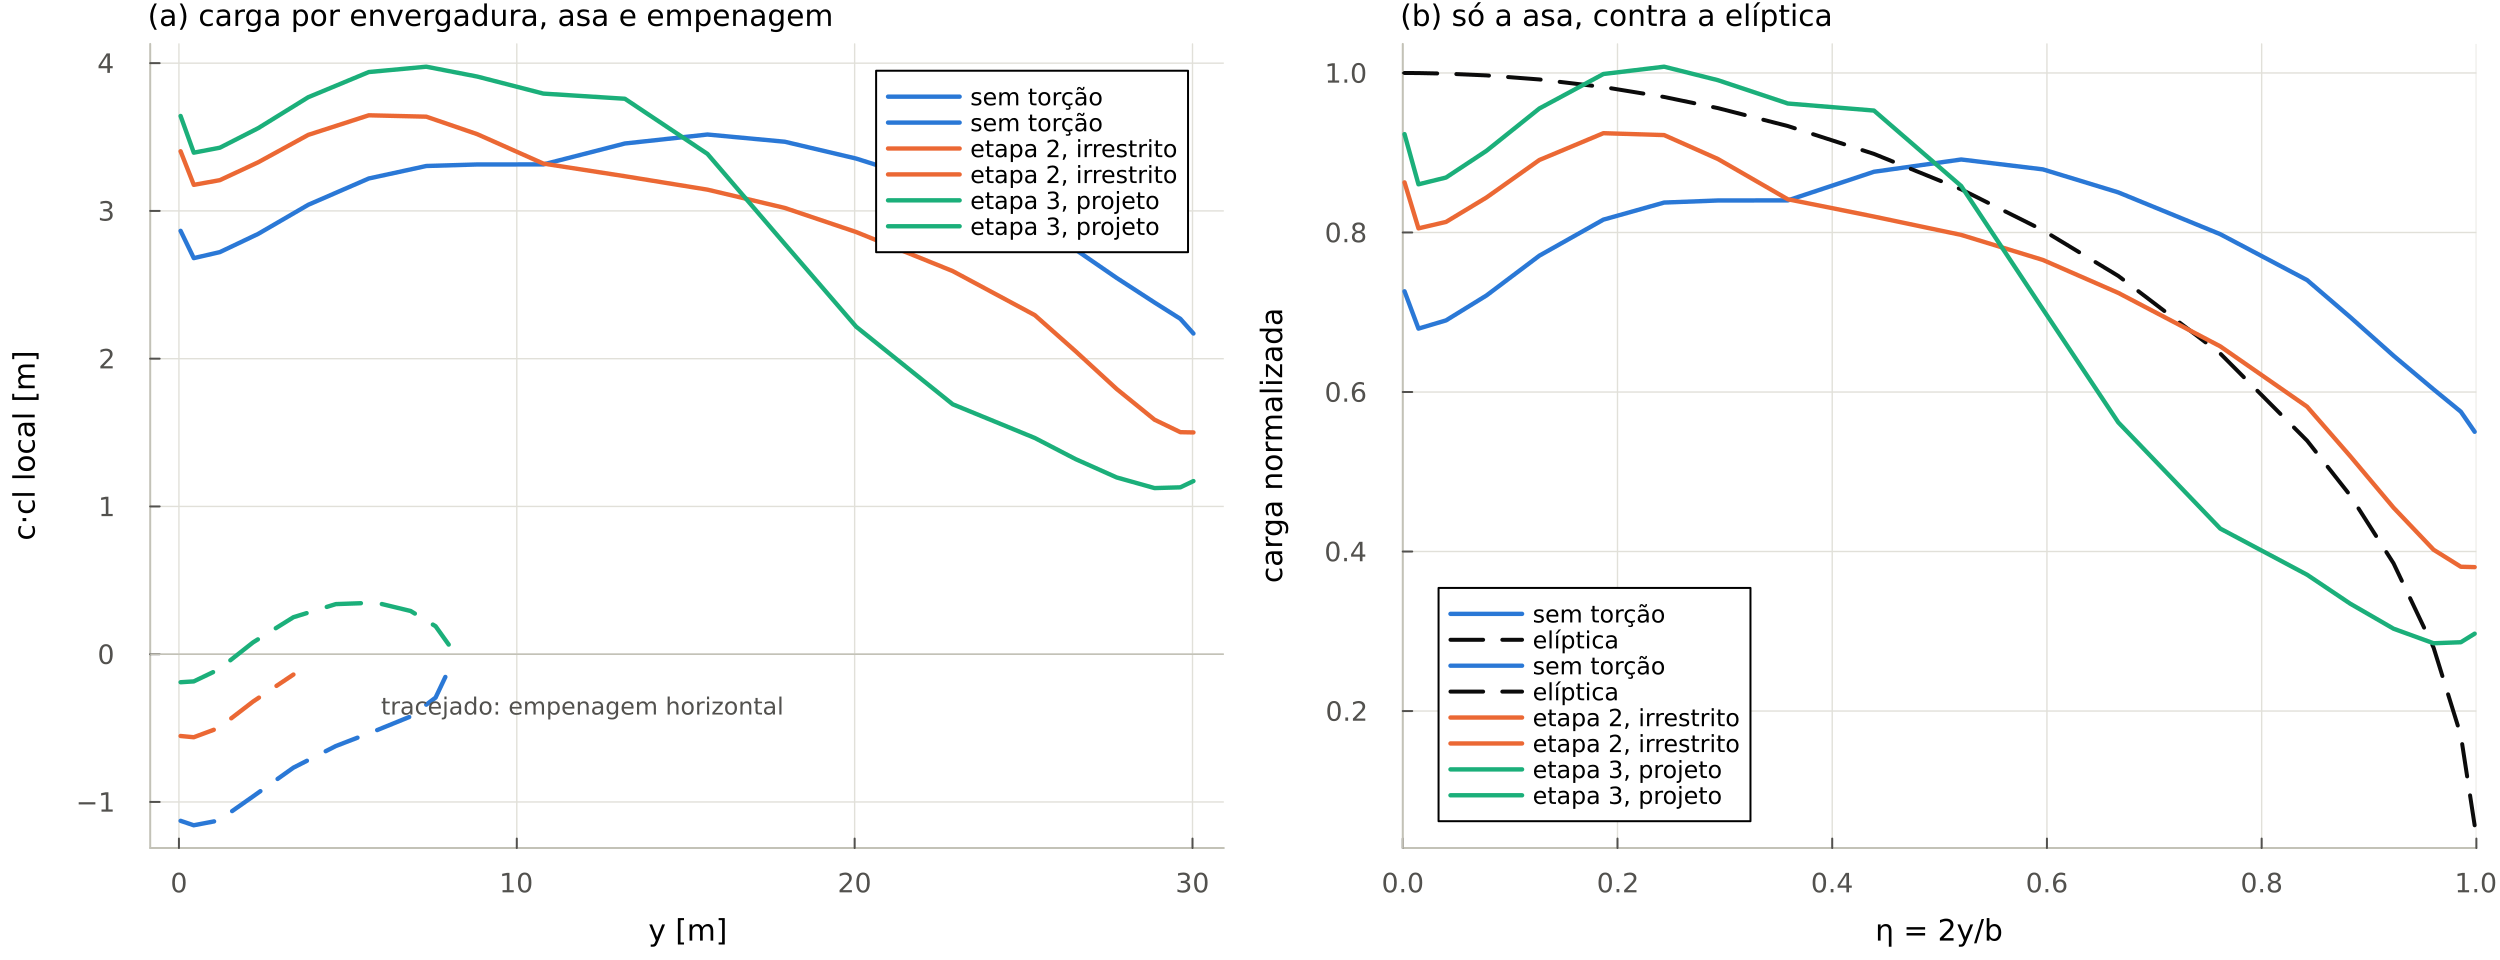
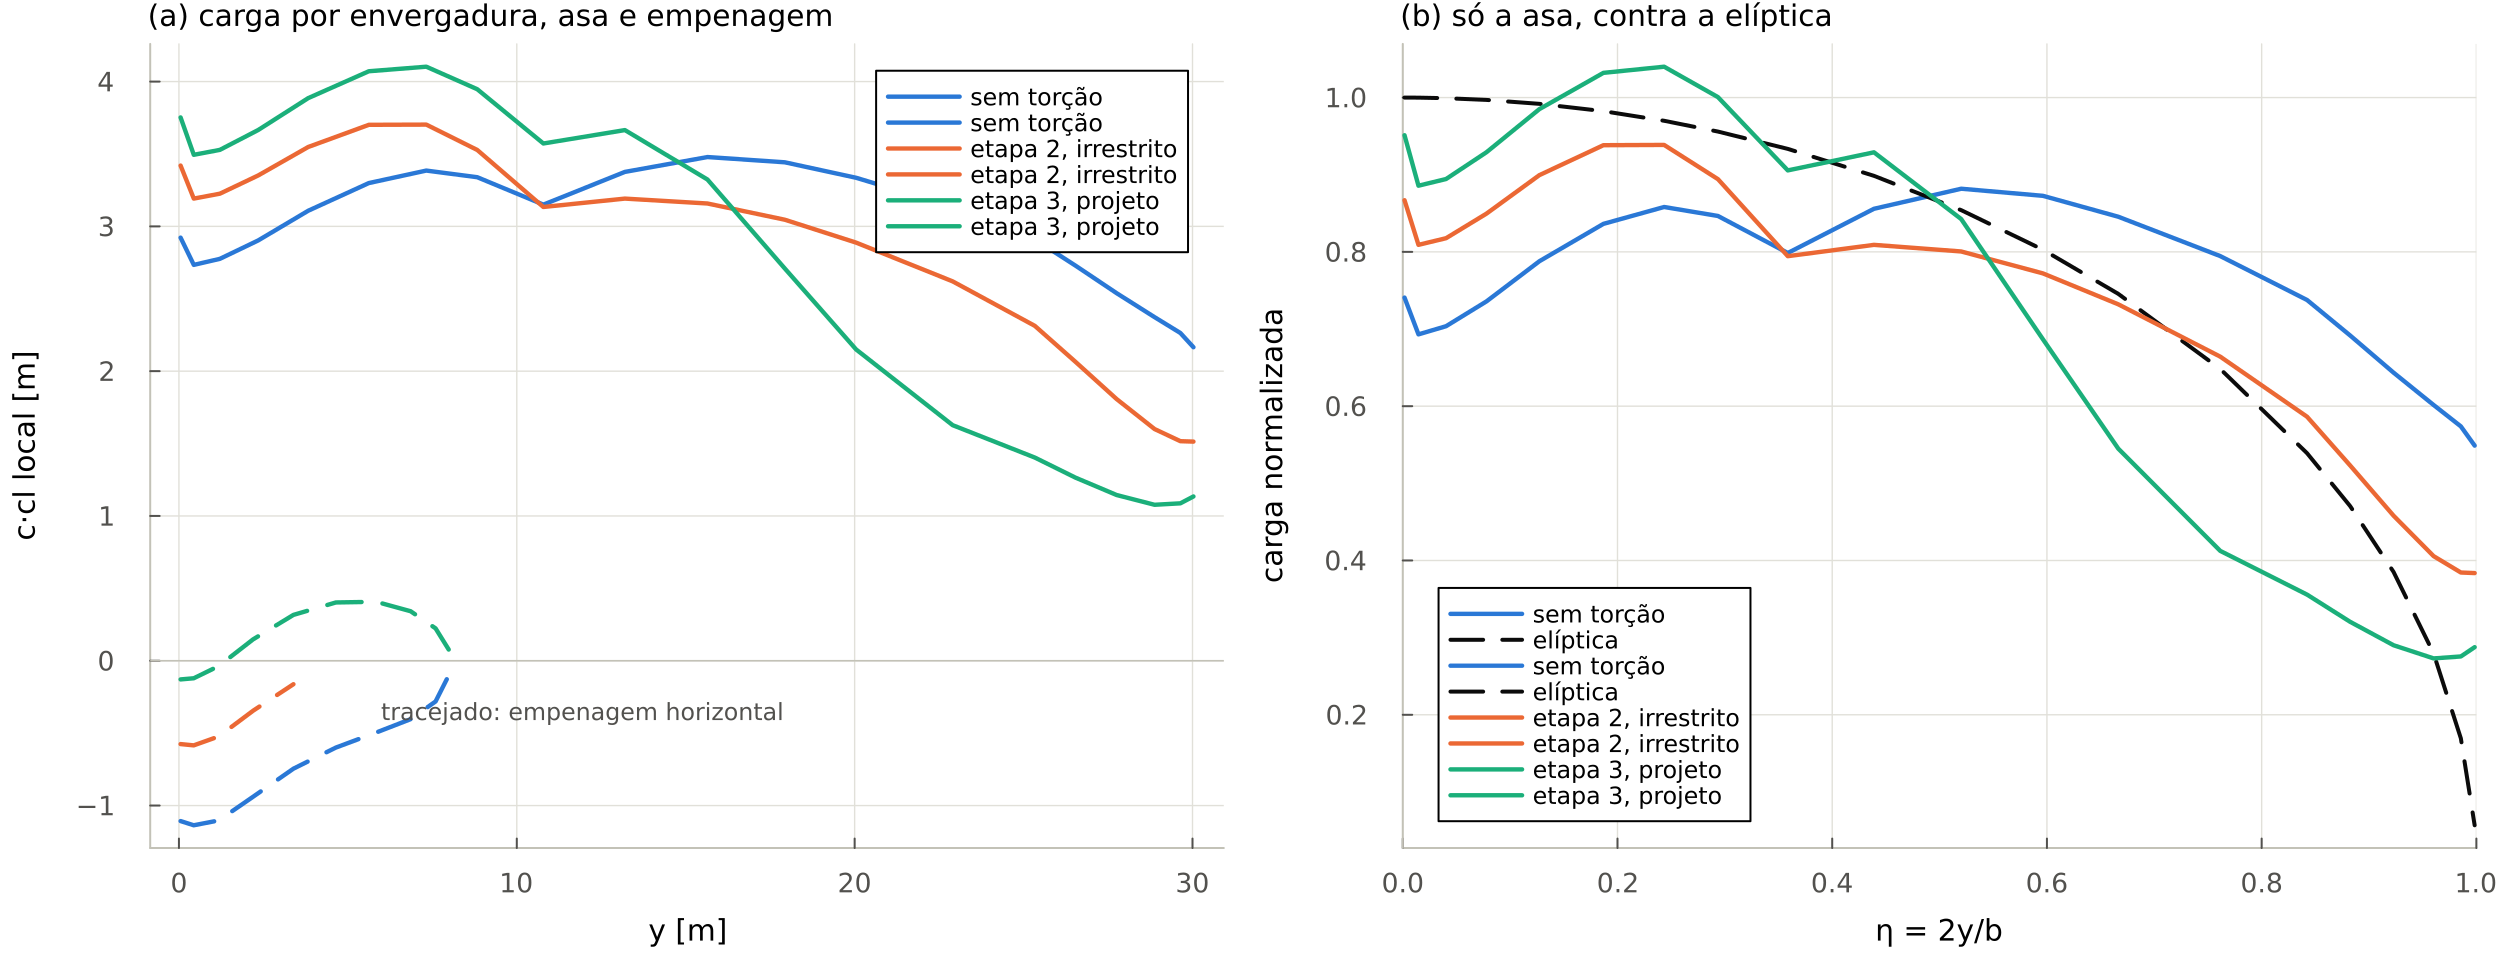
Lab 04: nacele como no 737 (COMPONENT 1), encaixe nos batentes e KKT fechado

diff --git a/avl/README.md b/avl/README.md
@@ -171,20 +171,21 @@ dentro do aileron. A causa é o modelo afim de estol, que extrapola de dois
 ângulos e é ligeiramente otimista perto do estol: nos casos medidos, ele
 superestimou a folga entre 0,11 e 0,19 grau. O desempate é esse erro, para que a
 posição do estol valha também na medição direta, que a verificação confere. No
-projeto final a folga pelo modelo é 0,200° e a medida direto é +0,094°.
+projeto final a folga pelo modelo é 0,200° e a medida direto é +0,089°.
 
 ### Onde pôr os nós
 
 O parâmetro que mais importa, e ele só aparece com a restrição ativa. Para
-arrasto puro as nove configurações ficam dentro de 1,2 count umas das outras;
-com a exigência de estol o espalhamento passa de 70 counts (valores do modelo):
+arrasto puro as nove configurações ficam dentro de 0,7 count umas das outras;
+com a exigência de estol o espalhamento passa de 50 counts, e com três nós
+nem existe solução viável (valores do modelo):
 
 | nós | sem restrição | com estol antes de 0,56 |
 |---|---|---|
-| 0,00 0,25 0,50 0,75 1,00 | −12,37 | +16,63 |
-| 0,00 0,22 0,40 0,56 0,75 1,00 | −12,52 | +8,28 |
-| 0,00 0,48 0,56 0,75 1,00 | −12,11 | +0,91 |
-| **0,00 0,30 0,48 0,56 0,70 0,85 1,00** | **−12,26** | **+0,91** |
+| 0,00 0,25 0,50 0,75 1,00 | −10,79 | +26,54 |
+| 0,00 0,22 0,40 0,56 0,75 1,00 | −10,83 | +14,46 |
+| 0,00 0,48 0,56 0,75 1,00 | −10,70 | +4,52 |
+| **0,00 0,30 0,48 0,56 0,70 0,85 1,00** | **−10,72** | **+4,48** |
 
 O que decide é ter um nó em 0,48, logo antes da raiz do aileron em 0,56: a curva
 fica plana até ali e vira depressa depois, sem vazar washout para a região que
@@ -194,20 +195,20 @@ precisa estolar primeiro.
 
 | caso | CDff | counts | Oswald | estol começa em η | CL no estol |
 |---|---|---|---|---|---|
-| sem torção | 0,010030 | - | 0,7983 | 0,923 | 0,954 |
-| 2: completa compensada, sem restrição | 0,008784 | −12,46 | 0,9180 | 0,842 | 1,073 |
-| **3: projeto, estol antes de 0,56** | **0,010045** | **+0,15** | **0,8064** | **0,520** | **1,217** |
+| sem torção | 0,010142 | - | 0,7941 | 0,923 | 0,952 |
+| 2: completa compensada, sem restrição | 0,009055 | −10,87 | 0,8966 | 0,842 | 1,065 |
+| **3: projeto, estol antes de 0,56** | **0,010511** | **+3,69** | **0,7783** | **0,520** | **1,219** |
 
 Torção adotada:
 
 | η | 0,000 | 0,101 | 0,220 | 0,320 | 0,398 | 0,480 | 0,560 | 0,700 | 0,820 | 0,900 | 1,000 |
 |---|---|---|---|---|---|---|---|---|---|---|---|
-| torção [°] | 0,00 | 0,00 | 0,00 | 0,00 | 0,00 | 0,00 | −2,95 | −5,81 | −5,81 | −5,81 | −5,81 |
+| torção [°] | 0,00 | 0,00 | 0,00 | 0,00 | 0,00 | 0,00 | −3,13 | −6,00 | −6,00 | −6,00 | −6,00 |
 
-A aeronave fica conforme por praticamente o mesmo arrasto da asa sem torção
-(+0,15 count), e o CL em que o estol começa sobe de 0,954 para 1,217, 28% a
-mais, logo abaixo do CLmax de 1,333 que o designTool estima para a aeronave
-limpa. O maior salto entre estações vizinhas é 2,95 graus (1,22 °/m), acima dos
+A aeronave fica conforme por 3,7 counts a mais que a asa sem torção, e o CL em
+que o estol começa sobe de 0,952 para 1,219, 28% a mais, logo abaixo do CLmax
+de 1,333 que o designTool estima para a aeronave limpa. O maior salto entre
+estações vizinhas é 3,13 graus (1,30 °/m), acima dos
 cerca de 0,3 °/m de um transporte, porque a variação de incidência se concentra
 junto à raiz do aileron, onde a restrição age.
 
@@ -215,54 +216,63 @@ Custo de exigir o início do estol mais para dentro:
 
 | estol antes de | CDff | counts | Oswald |
 |---|---|---|---|
-| **0,56** | **0,010045** | **+0,15** | **0,806** |
-| 0,50 e 0,45 | 0,013411 | +33,80 | 0,609 |
-| 0,40 e 0,35 | 0,013564 | +35,34 | 0,603 |
+| **0,56** | **0,010511** | **+3,69** | **0,778** |
+| 0,50 a 0,35 | 0,013446 | +33,04 | 0,614 |
 
 O salto entre 0,56 e 0,50 é grande porque a malha só enxerga os centros das
 faixas (0,439, 0,520, 0,596...): exigir 0,50 tira da região interna a faixa em
-0,520, que é justamente a que estola primeiro no projeto. Por isso 0,45 e 0,50
-dão o mesmo resultado.
+0,520, que é justamente a que estola primeiro no projeto. Daí para dentro o
+resultado é o mesmo: o ótimo passa a estolar em η = 0,243, bem antes de todos
+esses limites.
 
-### Por que o Oswald fica em 0,81
+### Por que o Oswald fica em 0,78
 
 A cascata abaixo, feita pelo `carga_completa.jl` com a torção da etapa 2 e o CL
 fixo, atribui cada queda a uma peça da aeronave:
 
 | configuração | e | Δe |
 |---|---|---|
-| só a asa, sem winglet | 0,982 | - |
-| + winglet | 1,078 | +0,096 |
-| + fuselagem | 1,058 | −0,020 |
-| **+ naceles** | **0,943** | **−0,115** |
-| + empenagens, profundor em zero | 0,932 | −0,011 |
-| compensado, ótimo da etapa 2 | 0,918 | −0,014 |
-| **+ restrição de estol (projeto)** | **0,806** | **−0,112** |
+| só a asa, sem winglet | 0,979 | - |
+| + winglet | 1,075 | +0,096 |
+| + fuselagem | 1,056 | −0,019 |
+| **+ naceles** | **0,923** | **−0,132** |
+| + empenagens, profundor em zero | 0,916 | −0,007 |
+| compensado, ótimo da etapa 2 | 0,897 | −0,020 |
+| **+ restrição de estol (projeto)** | **0,778** | **−0,118** |
 
-A otimização sem restrição entrega 0,918, e a asa isolada com winglet chega a
+A otimização sem restrição entrega 0,897, e a asa isolada com winglet chega a
 1,08. As duas maiores quedas são as naceles e a restrição de estol, cada uma de
-cerca de 0,11.
+cerca de 0,12 a 0,13.
 
-**Alerta sobre as naceles.** Elas estão modeladas como SUPERFÍCIE sustentadora
-em forma de anel, com cerca de 91 m² de malha cada, quase metade da área da
-asa. No VLM um anel em ângulo de ataque gera circulação, esteira e arrasto
-induzido; uma nacele real tem escoamento passante e não se comporta assim. A
-representação usual no AVL para nacele é BODY, que desloca o escoamento sem
-sustentar. O efeito não fica só no valor absoluto: com a mesma torção e o mesmo
-CL, tirar as naceles muda a carga local da asa em até 11% em η = 0,36.
-Comparações entre casos continuam válidas, porque as naceles são as mesmas em
-todos, mas o valor absoluto do Oswald depende dessa escolha de modelagem.
+**Naceles: a modelagem do 737 da disciplina.** No `737.avl` a nacele é uma
+SUPERFÍCIE sustentadora em forma de anel, declarada no mesmo `COMPONENT 1` da
+asa. Aqui ela foi copiada igual, inclusive o componente: entre componentes
+diferentes o AVL usa núcleo finito nos vórtices, e a interação asa-nacele
+mudaria em relação ao modelo de referência. Cada anel tem cerca de 91 m² de
+malha, quase metade da área da asa, e no VLM um anel em ângulo de ataque gera
+circulação, esteira e arrasto induzido, o que uma nacele real, de escoamento
+passante, não faz. O próprio 737 de referência mostra o tamanho desse efeito:
+
+| 737.avl da disciplina | e |
+|---|---|
+| sem as naceles | 0,842 |
+| naceles em anel, componente próprio | 0,792 |
+| **naceles em anel, COMPONENT 1 (como está no arquivo)** | **0,751** |
+
+Ou seja, o Oswald na faixa de 0,75 a 0,80 é o que esta modelagem entrega
+mesmo para o avião de referência, e o nosso 0,778 está nela. Comparações entre
+casos continuam válidas, porque as naceles são as mesmas em todos.
 
 **Estudo, não adotado: nacele como BODY.** Trocando o anel por um corpo de
 revolução com as mesmas dimensões e posição (7,3 m por 4,0 m, bocal elíptico,
 cauda afinando) e refazendo toda a otimização:
 
-| | nacele como anel (atual) | nacele como BODY |
+| | nacele como no 737 (adotado) | nacele como BODY |
 |---|---|---|
-| sem torção | 0,010030, e 0,798 | 0,009485, e 0,824 |
-| etapa 2, sem restrição | 0,008784, e 0,918 | 0,007259, e 1,068 |
-| projeto, estol antes de 0,56 | 0,010045, e 0,806 | 0,008226, e 0,952 |
-| projeto contra a asa sem torção | +0,15 count | −12,6 counts |
+| sem torção | 0,010142, e 0,794 | 0,009485, e 0,824 |
+| etapa 2, sem restrição | 0,009055, e 0,897 | 0,007259, e 1,068 |
+| projeto, estol antes de 0,56 | 0,010511, e 0,778 | 0,008226, e 0,952 |
+| projeto contra a asa sem torção | +3,69 counts | −12,6 counts |
 
 Com a nacele como BODY o problema também fica mais comportado: no estudo de nós
 todas as configurações viáveis ficam entre −6 e −12 counts, e a torção de
@@ -280,16 +290,19 @@ produziram, e passa em todas as checagens.
 - **Física**: monotonicidade e tamanho da torção, coerência entre CDff, CL e
   Oswald, e a posição do estol refeita por varredura direta de ângulo de ataque
   no AVL, sem extrapolar do modelo afim. Na medição direta o estol do projeto
-  começa em η = 0,520, antes da raiz do aileron, com folga de +0,094°.
+  começa em η = 0,520, antes da raiz do aileron, com folga de +0,089°.
 - **KKT no espaço dos decrementos**, necessário porque na reparametrização
   logística ds/du tende a zero junto ao batente, e a estacionariedade em u não
-  distingue um mínimo legítimo de uma parada prematura. O ótimo é um vértice:
-  seis variáveis, quatro batentes de monotonicidade e duas faixas de estol
-  ativas (η = 0,596 e 0,842), com multiplicadores de +19,6 e +6,7 counts por
-  grau nas faixas de estol e resíduo zero. Um dos batentes (s5) tem
-  multiplicador de −0,016 count por grau, zero para fins práticos: é o
-  vestígio da parada perto do batente que a reparametrização causa, e o ganho
-  possível ao sair dele fica abaixo de décimos de count.
+  distingue um mínimo legítimo de uma parada prematura. Foi esse teste que
+  pegou a parada: o LBFGS deixava decrementos de 0,0003 a 0,035 grau que
+  deveriam ser zero, e o resíduo de KKT dava 3,8 counts por grau. O otimizador
+  agora termina com um encaixe, que zera os decrementos abaixo de 0,1 grau e
+  repole os demais direto em s, aceito só se continuar viável e não piorar o
+  arrasto. O ótimo é um vértice: seis variáveis, quatro batentes de
+  monotonicidade e duas faixas de estol ativas (η = 0,596 e 0,842), com
+  multiplicadores de +23,8 e +7,1 counts por grau nas faixas de estol, todos
+  os multiplicadores positivos (o menor, +0,14) e resíduo zero. O cone crítico
+  é vazio: o ótimo é determinado pelas restrições.
 - **O erro do modelo de arrasto não mexe no ótimo.** Remontando o modelo
   centrado no próprio ótimo, onde ele passa a ser exato, e resolvendo de novo,
   os decrementos saem idênticos até a terceira casa e o arrasto medido no AVL
@@ -298,7 +311,7 @@ produziram, e passa em todas as checagens.
   fica num vale raso em vez de num vértice, a torção pode deslizar alguns
   décimos de grau sem mudar o arrasto, e isso não é defeito.
 - **Caminho independente**: refeita a partir da asa sem torção, sem nenhuma
-  semente da busca global, a otimização chega ao mesmo ponto (+0,00 count)
+  semente da busca global, a otimização chega ao mesmo ponto (+0,01 count)
   depois de cerca de 2000 iterações. É esse caminho que o
   `evolucao_3_com_estol.gif` mostra.
 - **Otimizar sem restrição e corrigir depois não ganha.** A alternativa óbvia
@@ -308,13 +321,13 @@ produziram, e passa em todas as checagens.
 
 | etapa 2 + washout manual | washout necessário | contra o otimizador |
 |---|---|---|
-| rampa linear desde η = 0,48 (melhor rampa) | 11,6° | +48,5 counts |
-| degrau até η = 0,56 | 5,2° | +25,8 counts |
-| **degrau até η = 0,60 (melhor manual)** | **4,7°** | **+14,1 counts** |
-| degrau até η = 0,70 | 5,4° | +19,3 counts |
+| rampa linear desde η = 0,48 (melhor rampa) | 12,2° | +53,2 counts |
+| degrau até η = 0,56 | 5,4° | +26,0 counts |
+| **degrau até η = 0,60 (melhor manual)** | **4,8°** | **+13,9 counts** |
+| degrau até η = 0,70 | 5,6° | +20,7 counts |
 
   A rampa começando antes do aileron descarrega também as faixas que precisam
-  estolar primeiro e pede 11° a 18° de washout. O otimizador deixa a asa plana
+  estolar primeiro e pede 10° a 19° de washout. O otimizador deixa a asa plana
   até 0,48 e concentra o washout na raiz do aileron, e mesmo o degrau manual com
   essa forma perde 14 counts porque parte da torção da etapa 2 em vez de
   escolher a torção inteira sabendo da restrição.
@@ -322,3 +335,15 @@ produziram, e passa em todas as checagens.
 Nenhuma etapa encostou no batente superior de 6 graus por intervalo, e a
 torção total ficou abaixo do limite de 12 graus: os únicos batentes ativos são
 os de monotonicidade.
+
+## Alerta: ponto neutro com as naceles do 737
+
+Com as naceles modeladas como no 737, o ponto neutro que o AVL devolve é
+x = 27,38 m (asa sem torção, M = 0,85), à frente do CG traseiro do
+`aft.avl` em 27,72 m: margem estática de −5,0% da CMA no CG traseiro e +18,7%
+no dianteiro. O designTool dá +7,1% no traseiro. Os anéis sustentadores ficam à
+frente da asa e contribuem de forma desestabilizadora; o próprio 737 de
+referência perde cerca de 10% da CMA de margem com eles. Não afeta a
+otimização de torção, que é a CL fixo e compensada, mas pesa no item de ponto
+neutro e derivadas do roteiro: vale discutir com a equipe se o número do
+designTool ou o do AVL é o de referência, ou reportar os dois.
